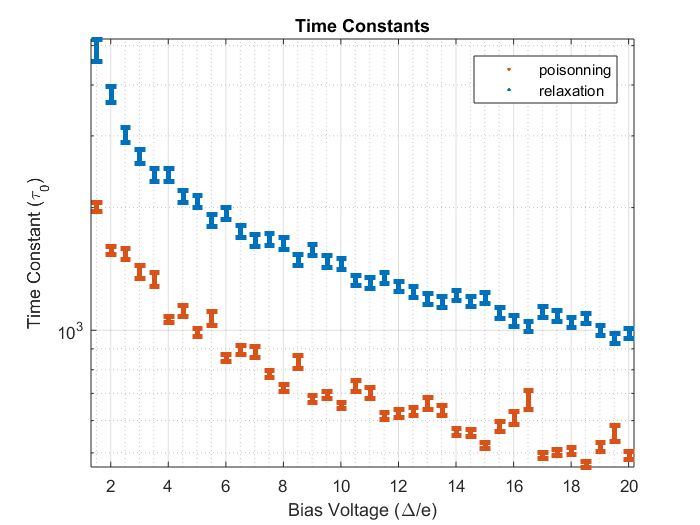
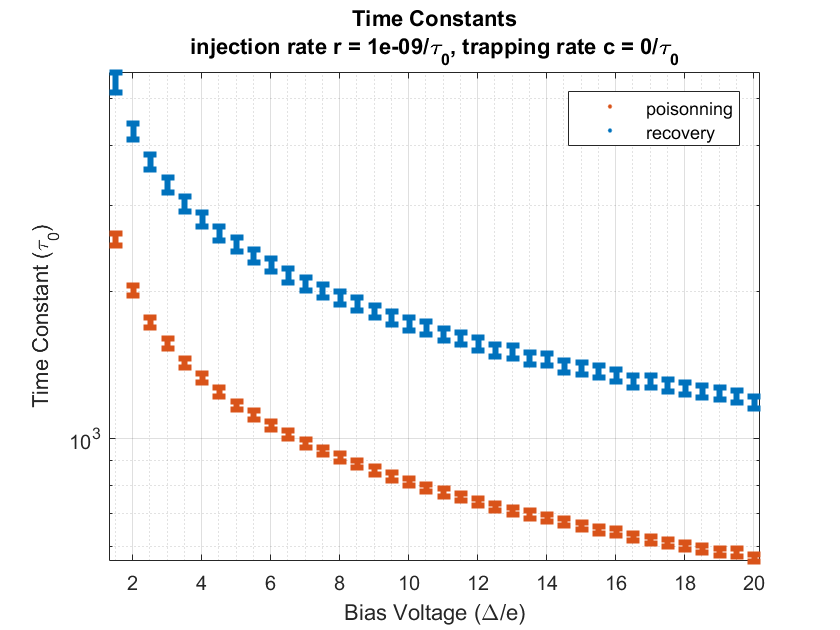
Update the quasiparticle simulation scripts

diff --git a/Simulations/Quasiparticles/plotPowerDependences.m b/Simulations/Quasiparticles/plotPowerDependences.m
@@ -4,63 +4,78 @@ function plotPowerDependences
 %as the time that it takes to achieve the equilibrium vs injection power/
 %voltage.
 
-r = 1e-9; % in units of 1 / \tau_0 (assuming n_{qp} in units of n_{cp})
-V = 1:.25:20; % in units of \Delta
+r = 1e-8; % in units of 1 / \tau_0 (assuming n_{qp} in units of n_{cp})
+c = 1e-3; % trapping rate in units of 1 / \tau_0
+V = [1, 1.01, 1.03, 1.07, 1.1, 1.25, 1.25:.5:10]; % in units of \Delta
 Tph = 0.050; % K
-tspan = [-30000, 0]; % in units of \tau_0
+tspan = [-20000, 0]; % in units of \tau_0
 
-P = nan(size(V));
-n_qp_eq = nan(size(V));
-t_qp_eq = nan(size(V));
+P_no = nan(size(V));
+n_qp_eq_no = nan(size(V));
+t_qp_eq_no = nan(size(V));
+P_tr = nan(size(V));
+n_qp_eq_tr = nan(size(V));
+t_qp_eq_tr = nan(size(V));
 for k = 1:length(V)
-    [t_qp, ~, ~, ~, n_qp, ~, ~, P(k)] = noTrapping0DModel(r, V(k), Tph, tspan);
-    n_qp_eq(k) = n_qp(end);
+    [t_qp, ~, ~, ~, n_qp, ~, ~, P_no(k)] = noTrapping0DModel(r, V(k), Tph, tspan);
+    n_qp_eq_no(k) = n_qp(end);
     [~, idx] = max(n_qp);
-    t_qp_eq(k) = t_qp(idx) - t_qp(1);
+    t_qp_eq_no(k) = t_qp(idx) - t_qp(1);
+    [t_qp, ~, ~, ~, n_qp, ~, ~, P_tr(k)] = simpleTrapping0DModel(r, c, V(k), Tph, tspan);
+    n_qp_eq_tr(k) = n_qp(end);
+    [~, idx] = max(n_qp);
+    t_qp_eq_tr(k) = t_qp(idx) - t_qp(1);
 end
 
 figure
-plot(P, n_qp_eq, 'LineWidth', 3)
+plot(P_no, n_qp_eq_no, P_tr, n_qp_eq_tr, 'LineWidth', 3)
 hold on
 xlabel('Injection Power (n_{\rm cp}\Delta/\tau_0)', 'FontSize', 14)
 ylabel('n_{\rm qp}^{eq}/n_{\rm cp}', 'FontSize', 14)
 title({'Stationary (Equilibrium) Quasiparticle Concentration',...
-    ['Injection Rate Constant r = ', num2str(r), '/\tau_0']})
+    ['injection rate r = ', num2str(r), '/\tau_0, ',...
+     'trapping rate c = ', num2str(c), '/\tau_0']})
+legend('no trapping', 'with trapping')
 grid on
 grid minor
 axis tight
 
 figure
-plot(V, n_qp_eq, 'LineWidth', 3)
+plot(V, n_qp_eq_no, V, n_qp_eq_tr, 'LineWidth', 3)
 hold on
 xlabel('Injection Voltage (\Delta/e)', 'FontSize', 14)
 ylabel('n_{\rm qp}^{eq}/n_{\rm cp}', 'FontSize', 14)
 title({'Stationary (Equilibrium) Quasiparticle Concentration',...
-    ['Injection Rate Constant r = ', num2str(r), '/\tau_0']})
+    ['injection rate r = ', num2str(r), '/\tau_0, ',...
+     'trapping rate c = ', num2str(c), '/\tau_0']})
+legend('no trapping', 'with trapping')
 grid on
 grid minor
 axis tight
 
-figure
-plot(P, t_qp_eq, 'LineWidth', 3)
-hold on
-xlabel('Injection Power (n_{\rm cp}\Delta/\tau_0)', 'FontSize', 14)
-ylabel('Poisoning Equilibration Time (\tau_0)', 'FontSize', 14)
-title({'Poisoning Equilibration Time',...
-    ['Injection Rate Constant r = ', num2str(r), '/\tau_0']})
-grid on
-grid minor
-axis tight
-
-figure
-plot(V, t_qp_eq, 'LineWidth', 3)
-hold on
-xlabel('Injection Voltage (\Delta/e)', 'FontSize', 14)
-ylabel('Poisoning Equilibration Time (\tau_0)', 'FontSize', 14)
-title({'Poisoning Equilibration Time',...
-    ['Injection Rate Constant r = ', num2str(r), '/\tau_0']})
-grid on
-grid minor
-axis tight
+% figure
+% plot(P_no, t_qp_eq_no, P_tr, t_qp_eq_tr, 'LineWidth', 3)
+% hold on
+% xlabel('Injection Power (n_{\rm cp}\Delta/\tau_0)', 'FontSize', 14)
+% ylabel('Poisoning Equilibration Time (\tau_0)', 'FontSize', 14)
+% title({'Stationary (Equilibrium) Quasiparticle Concentration',...
+%     ['injection rate r = ', num2str(r), '/\tau_0, ',...
+%      'trapping rate c = ', num2str(c), '/\tau_0']})
+% grid on
+% grid minor
+% axis tight
+% 
+% figure
+% plot(V, t_qp_eq_no, V, t_qp_eq_tr, 'LineWidth', 3)
+% hold on
+% xlabel('Injection Voltage (\Delta/e)', 'FontSize', 14)
+% ylabel('Poisoning Equilibration Time (\tau_0)', 'FontSize', 14)
+% title({'Stationary (Equilibrium) Quasiparticle Concentration',...
+%     ['injection rate r = ', num2str(r), '/\tau_0, ',...
+%      'trapping rate c = ', num2str(c), '/\tau_0']})
+% legend('no trapping', 'with trapping')
+% grid on
+% grid minor
+% axis tight
 
 end

diff --git a/Simulations/Quasiparticles/simpleTrapping0DModel.m b/Simulations/Quasiparticles/simpleTrapping0DModel.m
@@ -1,12 +1,15 @@
 function [t, e, n, f, n_qp, n_qp_T, r_qp, P] = ...
-    noTrapping0DModel(r, V, Tph, tspan)
-%noTrapping0DModel Simplest model without any quasiparticle traps.
+    simpleTrapping0DModel(r, c, V, Tph, tspan)
+%simpleTrapping0DModel Simplest model with quasiparticle traps.
 % [t, e, n, f, n_qp, n_qp_T, r_qp, P] = noTrapping0DModel(r, V, Tph, tspan)
 %   computes the quasiparticle dynamics in a simple model without any
 %   quasiparticle traps.
 %   The input parameters:
-%      r is injection rate in 1/\tau_0,
-%      V is voltage in \Delta,
+%      r is the injection rate in 1/\tau_0, assuming n and n_qp in units
+%      of n_{cp},
+%      c is the trapping (capture) rate in 1/\tau_0, assuming n and n_qp
+%      in units of n_{cp},
+%      V is the applied voltage in \Delta,
 %      Tph is phonon temperature in K,
 %      tspan should be in form of [ti, tf] in units of \tau_0 where ti is
 %      the inital time and tf is the final time of the integration (it is
@@ -22,10 +25,10 @@ function [t, e, n, f, n_qp, n_qp_T, r_qp, P] = ...
 %      length(n_qp) == length(t),
 %      n_qp_T is the thermal quasiparticle density
 %      length(n_qp_T) == lenght(t),
-%      r_qp is the total injection rate in 1 / \tau_0, assuming n in
-%      units n_{cp}, single number,
-%      P is the total injected power in \Delta / \tau_0, assuming n in
-%      units n_{cp}.
+%      r_qp is the total injection rate in 1 / \tau_0, assuming n and n_qp
+%      in units n_{cp}, single number,
+%      P is the total injected power in \Delta / \tau_0, assuming n and
+%      n_qp in units n_{cp}, single number.
 % Constants.
 kB = 1.38064852e-23; % J / K
 eV2J = 1.602176565e-19; % J / eV 
@@ -41,7 +44,7 @@ Tph = kB * Tph / delta; % in units of \Delta
 Tc = 1 / 1.764; % \delta/(K_B * T_c) = 1.764 at T = 0 K BCS result
 
 % Number of energy bins.
-N = 400;
+N = 500;
 % Maximum energy.
 max_e = max(V) + 2;
 
@@ -89,9 +92,11 @@ else
 end
 R = R .* rho_de;
 
+Gt = c * Gtrapping(e, Tph, Tc);
+
 % Solve the ODE.
 options = odeset('AbsTol', 1e-20);
-[t, n] = ode15s(@(t, n) quasiparticleODE(t, n, rho_de, Gs, Gr, R),...
+[t, n] = ode15s(@(t, n) quasiparticleODE(t, n, rho_de, Gs, Gr, R, Gt),...
     tspan, n0, options);
 
 % Occupational numbers.
@@ -122,7 +127,17 @@ function normalized_density = rho(e)
     normalized_density = e ./ sqrt(e.^2 - 1);
 end
 
-function ndot = quasiparticleODE(t, n, rho_de, Gs, Gr, R)
+function Gt = Gtrapping(e, Tph, Tc)
+    de = 1e-5; % in units of \Delta
+    e_subgap = de/2:de:1-de/2;
+    [e_subgap, ei] = meshgrid(e_subgap, e);
+
+    Gt = (ei - e_subgap).^2 ./ abs(exp(-(ei - e_subgap) / Tph) - 1) / Tc^3;
+    Gt(~isfinite(Gt)) = 0;
+    Gt = sum(Gt, 2) * de;
+end
+
+function ndot = quasiparticleODE(t, n, rho_de, Gs, Gr, R, Gt)
     Gs = Gs .* (1 - ones(length(n), 1) * (n ./ rho_de)');
     if t > 0
         R = 0;
@@ -130,5 +145,8 @@ function ndot = quasiparticleODE(t, n, rho_de, Gs, Gr, R)
     % Eq. (2) in J. Wenner and J. M. Martinis: Erratum to
     % M. Lenander et al., Phys. Rev. B 84, 024501 (2011).
     % http://web.physics.ucsb.edu/~martinisgroup/papers/Lenander2010erratum.pdf
-    ndot = Gs' * n - sum(Gs, 2) .* n - 2 * n .* (Gr * n) + R;
+    % The last term is due to quasiparticle trapping assuming a simple
+    % model such that a quasiparticle is trapped if it scatters below
+    % the gap.
+    ndot = Gs' * n - sum(Gs, 2) .* n - 2 * n .* (Gr * n) + R - Gt .* n;
 end

diff --git a/Simulations/Quasiparticles/plotTimeConstantPowerDependence.m b/Simulations/Quasiparticles/plotTimeConstantPowerDependence.m
@@ -1,11 +1,11 @@
 function plotTimeConstantPowerDependence
 %plotTimeConstantPowerDependence Plot the time constant bias dependence.
 
-r = 2 * 1.7 * 1e-10 / (sqrt(8) - sqrt(2.8^2 - 1)); % in units of 1 / \tau_0
-                                      %(assuming n_{qp} in units of n_{cp})
+r = 1e-8; % in units of 1 / \tau_0 %(assuming n_{qp} in units of n_{cp})
+c = 1e-3; % trapping rate in units of 1 / \tau_0
 V = 1.5:.5:20; % in units of \Delta
 Tph = 0.050; % K
-tspan = [-40000, 40000]; % in units of \tau_0
+tspan = [-5000, 5000]; % in units of \tau_0
 
 tau_p = NaN(size(V));
 err_p = NaN(size(V));
@@ -13,7 +13,8 @@ tau_r = NaN(size(V));
 err_r = NaN(size(V));
 P = NaN(size(V));
 for k = 1:length(V)
-    [t, ~, ~, ~, n_qp, ~, ~, P(k)]  = noTrapping0DModel(r, V(k), Tph, tspan);
+    % [t, ~, ~, ~, n_qp, ~, ~, P(k)]  = noTrapping0DModel(r, V(k), Tph, tspan);
+    [t, ~, ~, ~, n_qp, ~, ~, P(k)]  = simpleTrapping0DModel(r, c, V(k), Tph, tspan);
     [tau_p(k), err_p(k), tau_r(k), err_r(k)] = extractTimeConstants(t, n_qp, false);
 end
 
@@ -25,8 +26,10 @@ errorbar(V, tau_r, err_r, '.', 'Color', [0    0.4470    0.7410],...
     'LineWidth', 3)
 xlabel('Bias Voltage (\Delta/e)', 'FontSize', 14)
 ylabel('Time Constant (\tau_0)', 'FontSize', 14)
-legend('poisonning', 'relaxation')
-title('Time Constants')
+legend('poisoning', 'recovery')
+title({'Time Constants',...
+      ['injection rate r = ', num2str(r), '/\tau_0, ',...
+       'trapping rate c = ', num2str(c), '/\tau_0']})
 set(gca, 'yscale', 'Log')
 grid on
 grid minor
@@ -40,8 +43,10 @@ errorbar(P, tau_r, err_r, '.', 'Color', [0    0.4470    0.7410],...
     'LineWidth', 3)
 xlabel('Injection Power (n_{\rm cp}\Delta/\tau_0)', 'FontSize', 14)
 ylabel('Time Constant (\tau_0)', 'FontSize', 14)
-legend('poisonning', 'relaxation')
-title('Time Constants')
+legend('poisoning', 'recovery')
+title({'Time Constants',...
+      ['injection rate r = ', num2str(r), '/\tau_0, ',...
+       'trapping rate c = ', num2str(c), '/\tau_0']})
 set(gca, 'yscale', 'Log')
 grid on
 grid minor

diff --git a/Simulations/Quasiparticles/plotSingleSolution.m b/Simulations/Quasiparticles/plotSingleSolution.m
@@ -1,12 +1,16 @@
 function plotSingleSolution
 %PLOTSINGLESOLUTION Generate the quasiparticle dynamics plots.
 
-r = 1e-9; % 2 * 1.7 * 1e-10 / (sqrt(8) - sqrt(2.8^2 - 1));
-V = 2; %[2.8, 3]; % in units of \Delta
+r = 1e-8; % in units of 1 / \tau_0
+% r = 2 * 1.7 * 1e-10 / (sqrt(8) - sqrt(2.8^2 - 1));
+                                      %(assuming n_{qp} in units of n_{cp})
+c = 1e-3; % trapping rate in units of 1 / \tau_0
+V = 1.1; %[2.8, 3]; % in units of \Delta
 Tph = .05; % K
-tspan = [-30000, 50000]; % in units of \tau_0
+tspan = [-5000, 5000]; % in units of \tau_0
 
-[t, e, ~, f, n_qp] = noTrapping0DModel(r, V, Tph, tspan);
+% [t, e, ~, f, n_qp] = noTrapping0DModel(r, V, Tph, tspan);
+[t, e, ~, f, n_qp] = simpleTrapping0DModel(r, c, V, Tph, tspan);
 
 figure
 plot(t, n_qp, 'LineWidth', 3)
@@ -14,7 +18,7 @@ hold on
 xlabel('Time (\tau_0)', 'FontSize', 14)
 ylabel('n_{\rm qp} / n_{\rm cp}', 'FontSize', 14)
 title({'Quasipaticle Dynamics',...
-       '(injection at t < 0, relaxation at t > 0)'})
+       '(injection at t < 0, recovery at t > 0)'})
 grid on
 grid minor
 axis tight
@@ -24,6 +28,8 @@ plotSmooth(t, e, f)
 xlabel('Time (\tau_0)', 'FontSize', 14)
 ylabel('Energy (\epsilon/\Delta)', 'FontSize', 14)
 title({'Occupational Number f(\epsilon) Time Evolution',...
-       '(injection at t < 0, relaxation at t > 0)'})
+       '(injection at t < 0, recovery at t > 0)'})
+
+extractTimeConstants(t, n_qp, true);
 
 end

diff --git a/Simulations/Quasiparticles/extractTimeConstants.m b/Simulations/Quasiparticles/extractTimeConstants.m
@@ -8,11 +8,11 @@ end
 t_p = t(t < 0) - min(t);
 n_p = n_qp(t < 0);
 
-[~, idx] = max(n_qp);
-t_start = t_p(idx);
+pos = find(n_p == min(n_p(n_p > max(n_p) / exp(1))));
+t_start = t_p(pos(1));
 
-f_p = fit(t_p(:), n_p(:),...
-        'a * (1 - exp(-b * x))', 'StartPoint', [max(n_p), 10 / t_start]);
+f_p = fit(t_p(:), n_p(:), 'a * (1 - exp(-b * x))',...
+    'StartPoint', [max(n_p) , 1 / t_start], 'TolFun', 1e-20);
 
 tau_p = 1 / f_p.b;
 ci_p = confint(f_p);
@@ -37,8 +37,8 @@ end
 t_r = t(t > 0);
 n_r = n_qp(t > 0);
 
-f_r = fit(t_r(:), n_r(:),...
-        'a * exp(-b * x)', 'StartPoint', [max(n_r), f_p.b]);
+f_r = fit(t_r(:), n_r(:), 'a * exp(-b * x)',...
+    'StartPoint', [max(n_r), f_p.b], 'TolFun', 1e-20);
     
 tau_r = 1 / f_r.b;
 ci_r = confint(f_r);
@@ -52,7 +52,7 @@ if plot_flag
     plot(t_r, f_r.a * exp(-t_r / tau_r), 'LineWidth', 2)
     xlabel('Time (\tau_0)', 'FontSize', 14)
     ylabel('n_{\rm qp} / n_{\rm cp}', 'FontSize', 14)
-    title('Relaxation Fit')
+    title('Recovery Fit')
     legend('simulation', 'fit')
     grid on
     grid minor
